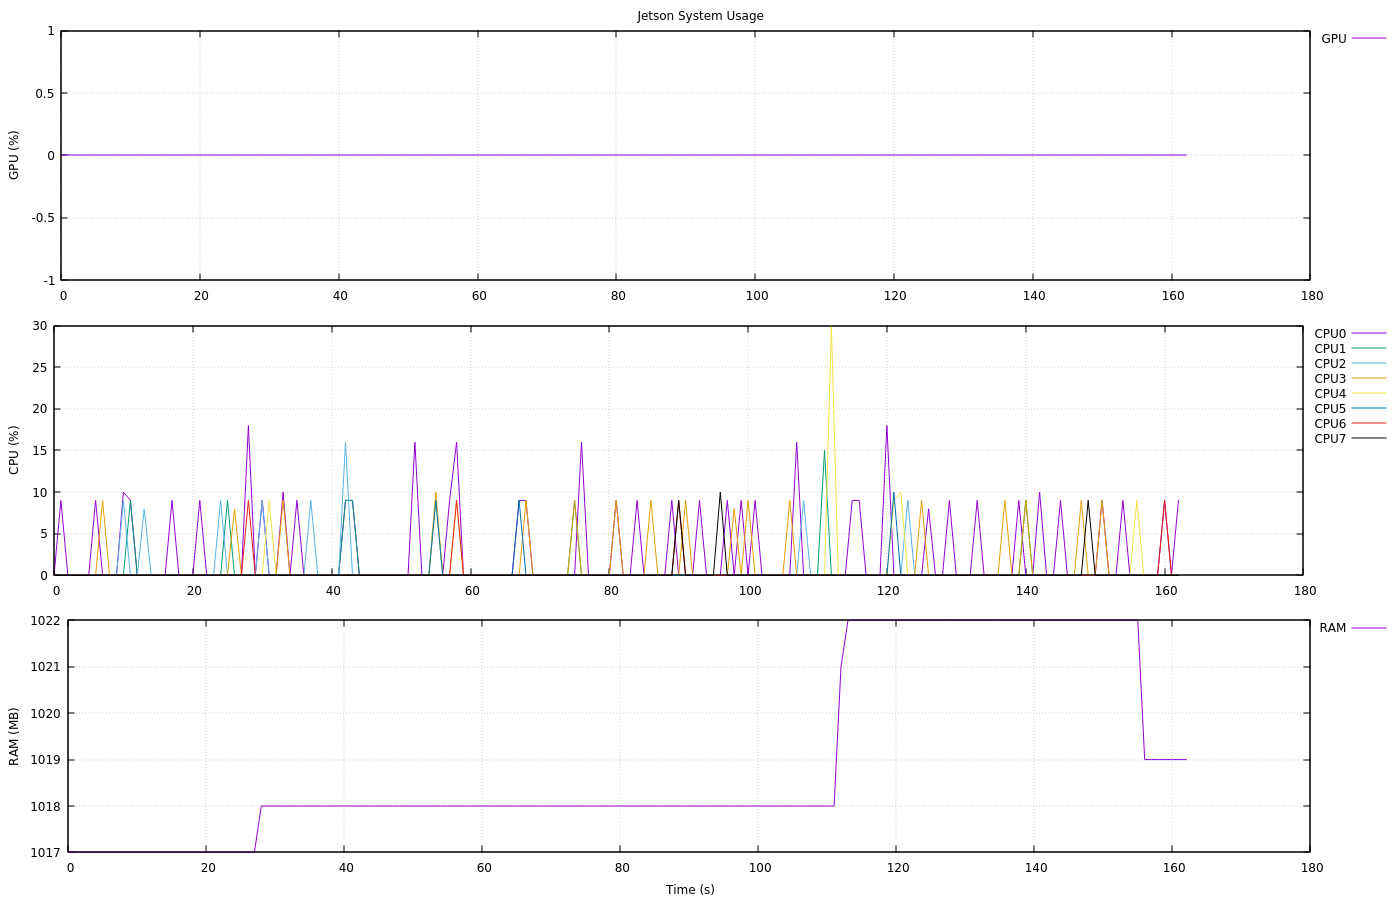
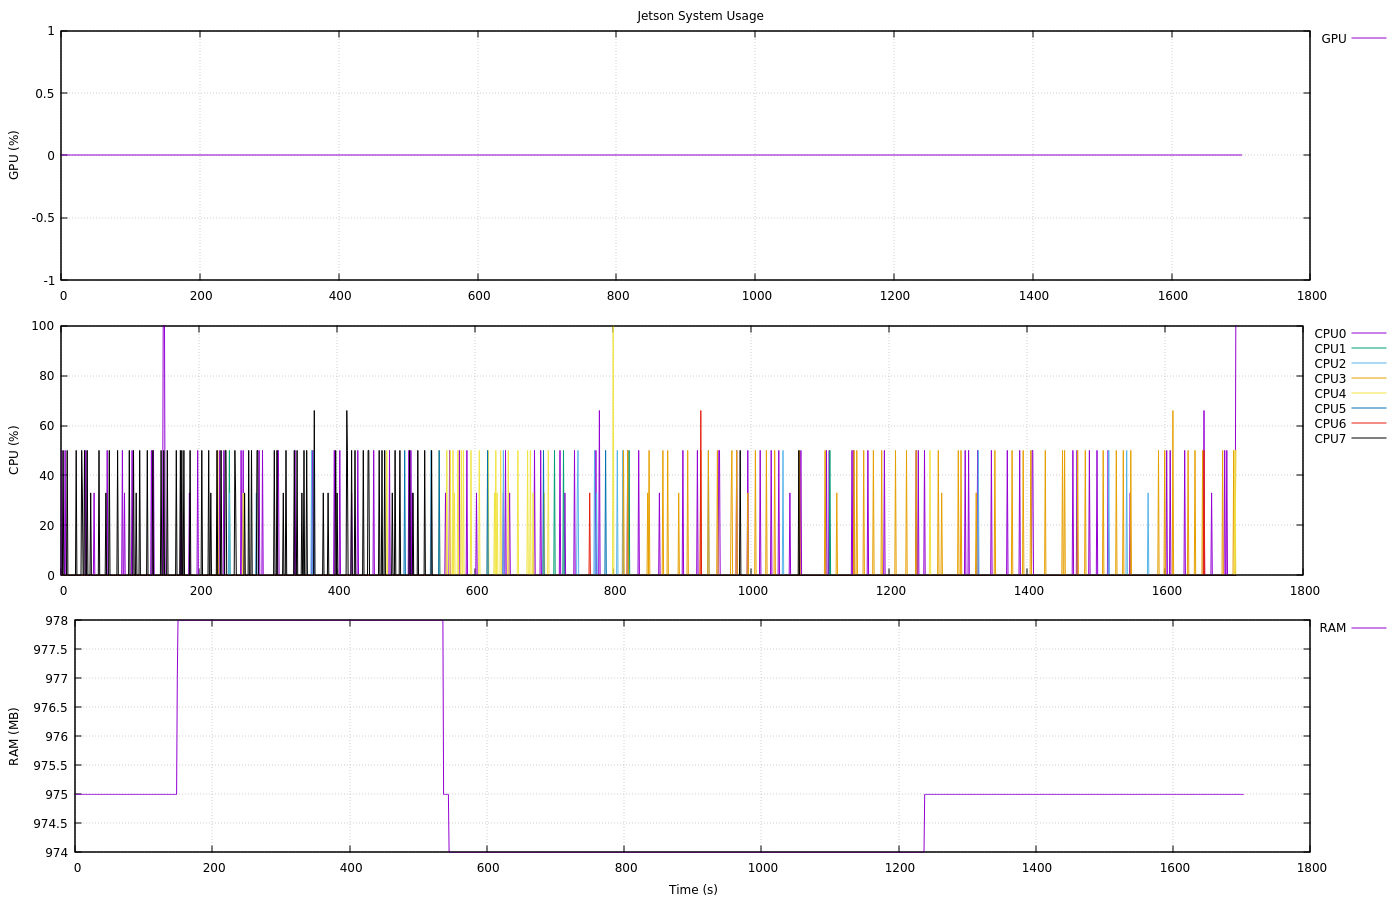
update figure

diff --git a/README.md b/README.md
@@ -97,7 +97,7 @@ GPU / CPU / RAM Plot
 ## Example
 
 ```bash
-tegrastats --interval 100 > tegrastats_$(date +%Y%m%d_%H%M%S).log 2>&1 &
+tegrastats --interval 10 > tegrastats_$(date +%Y%m%d_%H%M%S).log 2>&1 &
 
 pkill tegrastats
 
@@ -106,5 +106,5 @@ python tegra_plotter.py --log_path tegrastats_20260821_135119.log
 gnuplot -persist plot.gp
 ```
 
-> `--interval 100` 表示每 100 ms 取樣一次，也就是 10 Hz。
+> `--interval 10` 表示每 10 ms 取樣一次，也就是 100 Hz。
 
